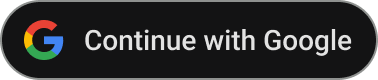
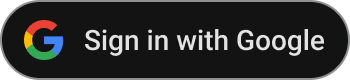
Revise header design

diff --git a/src/components/header.tsx b/src/components/header.tsx
@@ -2,69 +2,48 @@
 
 import Link from 'next/link';
 import { usePathname } from 'next/navigation';
-import { useEffect, useMemo, useRef, useState } from 'react';
+import { useMemo } from 'react';
 import Signin from './places/signin';
 import useStore from '@/lib/store';
 import Avatar from './places/avatar';
 
 const Header = () => {
-  const [mobileNavHidden, setMobileNavHidden] = useState(false);
-
   const { value: userInfo } = useStore('userInfo');
 
   const pathname = usePathname();
 
+  const showSigninIcon = useMemo(
+    () => pathname.startsWith('/places') && !userInfo,
+    [pathname, userInfo],
+  );
+
   const sticky = useMemo(() => pathname === '/' || pathname.startsWith('/places'), [pathname]);
 
-  const throttleRef = useRef<NodeJS.Timeout>();
-
-  useEffect(() => {
-    const handler = () => {
-      if (throttleRef.current) {
-        return;
-      }
-
-      throttleRef.current = setTimeout(() => {
-        if (document.documentElement.scrollTop > 200) {
-          setMobileNavHidden(true);
-        } else if (document.documentElement.scrollTop < 150) {
-          setMobileNavHidden(false);
-        }
-        throttleRef.current = undefined;
-      }, 100);
-    };
-
-    document.addEventListener('scroll', handler);
-
-    return () => document.removeEventListener('scroll', handler);
-  }, []);
-
   return (
-    <header className={`pt-3 pb-1 px-5 z-40 ${sticky ? 'sticky top-0' : ''}`}>
-      <div className="flex justify-between sm:justify-end items-end space-x-5 z-40">
-        <div className="sm:hidden">
-          {userInfo ? <Avatar src={userInfo.avatar} size={32} /> : <Signin width={130} />}
-        </div>
-        <div className="hidden sm:block">
-          <Nav />
-        </div>
-
-        <Link
-          href="/"
-          className={`text-2xl sm:text-4xl font-bold ${
-            pathname === '/' ? 'text-gray-300-animation' : 'text-brand1-animation'
-          }`}
-        >
-          Joon.log()
-        </Link>
-      </div>
-
+    <header className={`pt-3 pb-2 px-5 z-40 ${sticky ? 'sticky top-0' : ''}`}>
       <div
-        className={`flex justify-end sm:hidden z-10 ${
-          mobileNavHidden ? 'mobile-nav-hidden' : 'mobile-nav-show'
-        }`}
+        className={`flex ${
+          pathname.startsWith('/places') ? 'justify-between' : 'justify-end'
+        } sm:justify-end items-end space-x-5 z-40`}
       >
-        <Nav />
+        <div className="sm:hidden">
+          {pathname.startsWith('/places') &&
+            (userInfo ? <Avatar src={userInfo.avatar} size={32} /> : <Signin width={130} />)}
+        </div>
+
+        <div className={`flex items-end space-x-3 sm:space-x-5`}>
+          <div className={`${showSigninIcon && 'hidden'} sm:block`}>
+            <Nav />
+          </div>
+          <Link
+            href="/"
+            className={`text-2xl sm:text-4xl font-bold ${
+              pathname === '/' ? 'text-gray-300-animation' : 'text-brand1-animation'
+            }`}
+          >
+            Joon.log()
+          </Link>
+        </div>
       </div>
     </header>
   );
@@ -74,7 +53,7 @@ const Nav = () => {
   const pathname = usePathname();
 
   return (
-    <nav>
+    <nav className="text-sm sm:text-base">
       <span>
         <Link
           href="/about"

diff --git a/src/components/places/side.tsx b/src/components/places/side.tsx
@@ -7,7 +7,7 @@ const Side = () => {
   const { value: userInfo, dispatch: dispatchUserInfo } = useStore('userInfo');
 
   return (
-    <div className="sm:sticky sm:top-20 border border-gray-700 p-3 rounded">
+    <div className="hidden sm:block sm:sticky sm:top-20 border border-gray-700 p-3 rounded">
       <div>
         {userInfo ? (
           <div>

diff --git a/src/components/places/signin.tsx b/src/components/places/signin.tsx
@@ -64,8 +64,8 @@ const Signin = ({ width }: { width: number }) => {
 
   const height = useMemo(
     () =>
-      // 378 * 80
-      (80 * width) / 378,
+      // 350 * 80
+      (80 * width) / 350,
     [width],
   );
 
